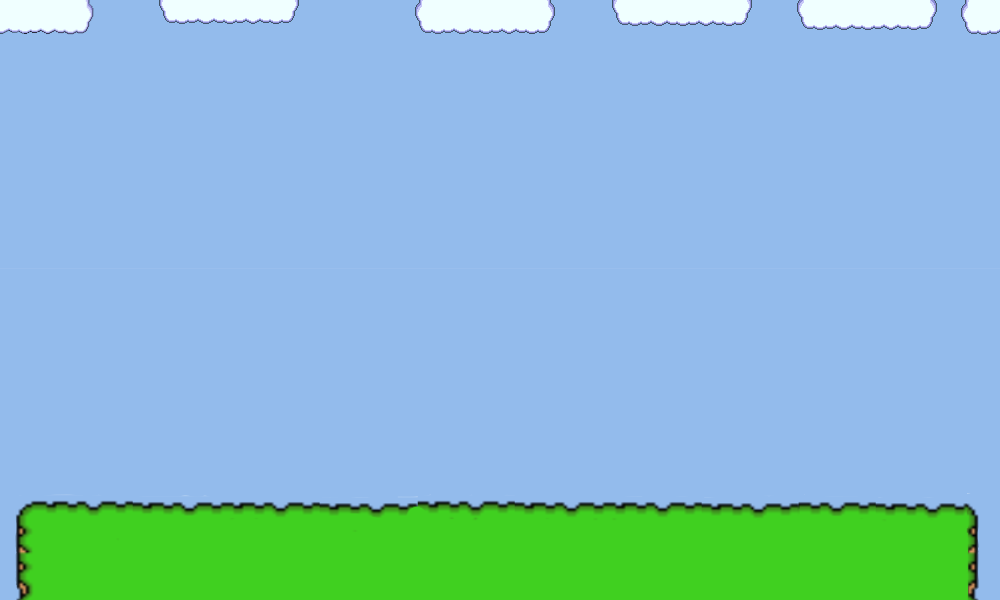
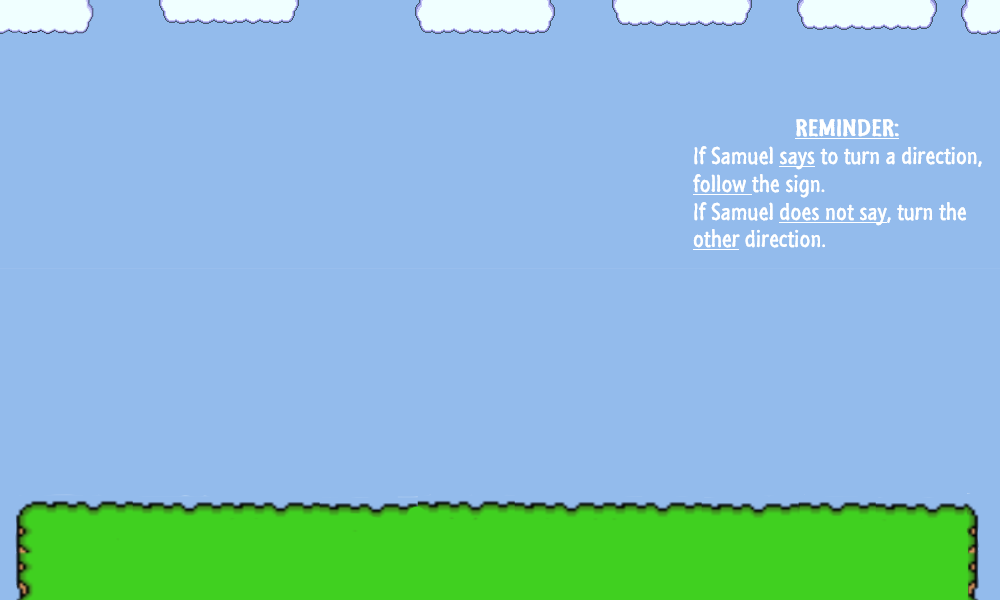
fixing based on todays feedback
-added reminder of how to play samuel says
-changed time of samuel says to 35 seconds
-updated the localisation files

Changed region(s): [[0.682, 0.18, 0.992, 0.42]]

diff --git a/SamuelSays.java b/SamuelSays.java
@@ -36,7 +36,6 @@ public class SamuelSays extends MiniGame
         addObject(flagSign, 185, 254);
         
         MainSound.setSound(new GreenfootSound("The Wide, Wide Ocean  Mario Party Music Extended OST Music [Music OST][Original Soundtrack].mp3"));
-        MainSound.setVolume(50);
         MainSound.play();
     }
     
@@ -52,7 +51,7 @@ public class SamuelSays extends MiniGame
 
     public void act(){
         super.act();
-        if((levelTimer.millisElapsed() >= 60000) || getObjects(Player.class).size() == 0){
+        if((levelTimer.millisElapsed() >= 35000) || getObjects(Player.class).size() == 0){
             removeObject(flagMan);
             removeObject(flagSign);
             updateWorld();

diff --git a/WorldMap.java b/WorldMap.java
@@ -167,9 +167,6 @@ public class WorldMap extends World
      */
     private MiniGame getRandomMiniGame() {
         MiniGame game;
-        
-        MainSound.stop();
-
         while (true) {
             int r = Utils.random(1, 5);
             switch (r) {
